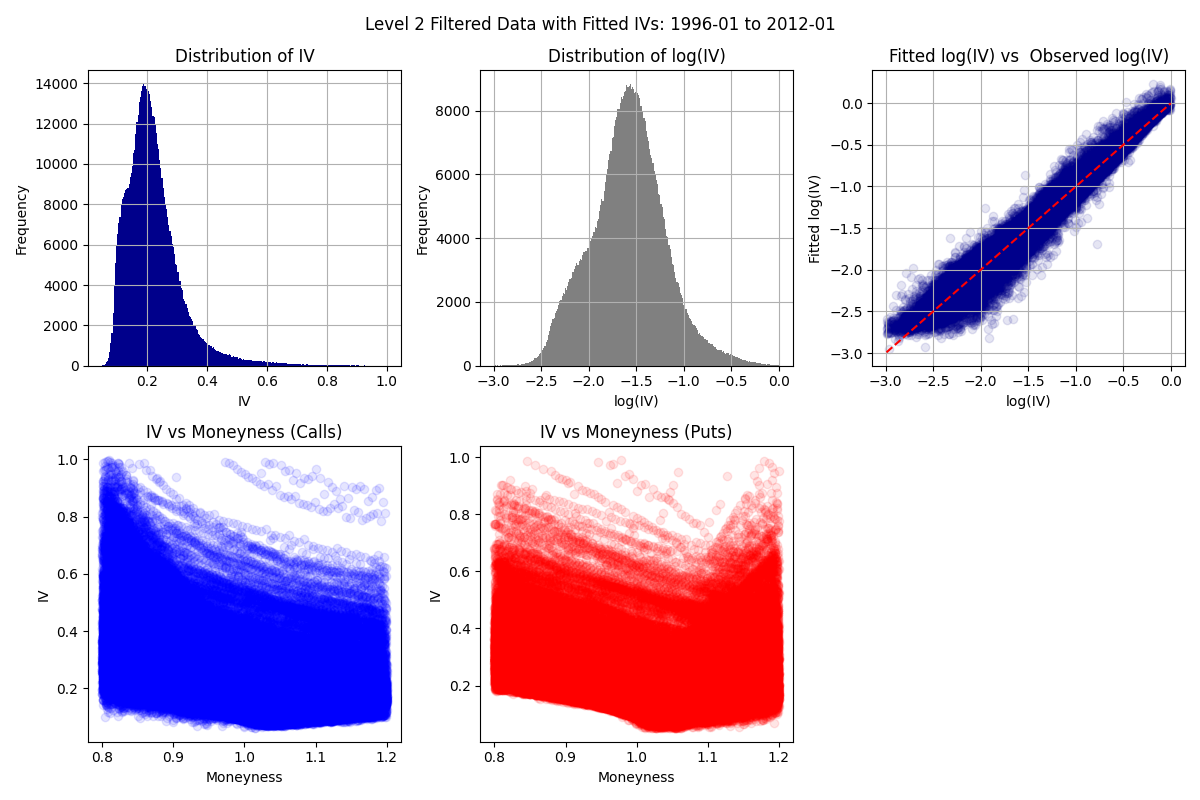
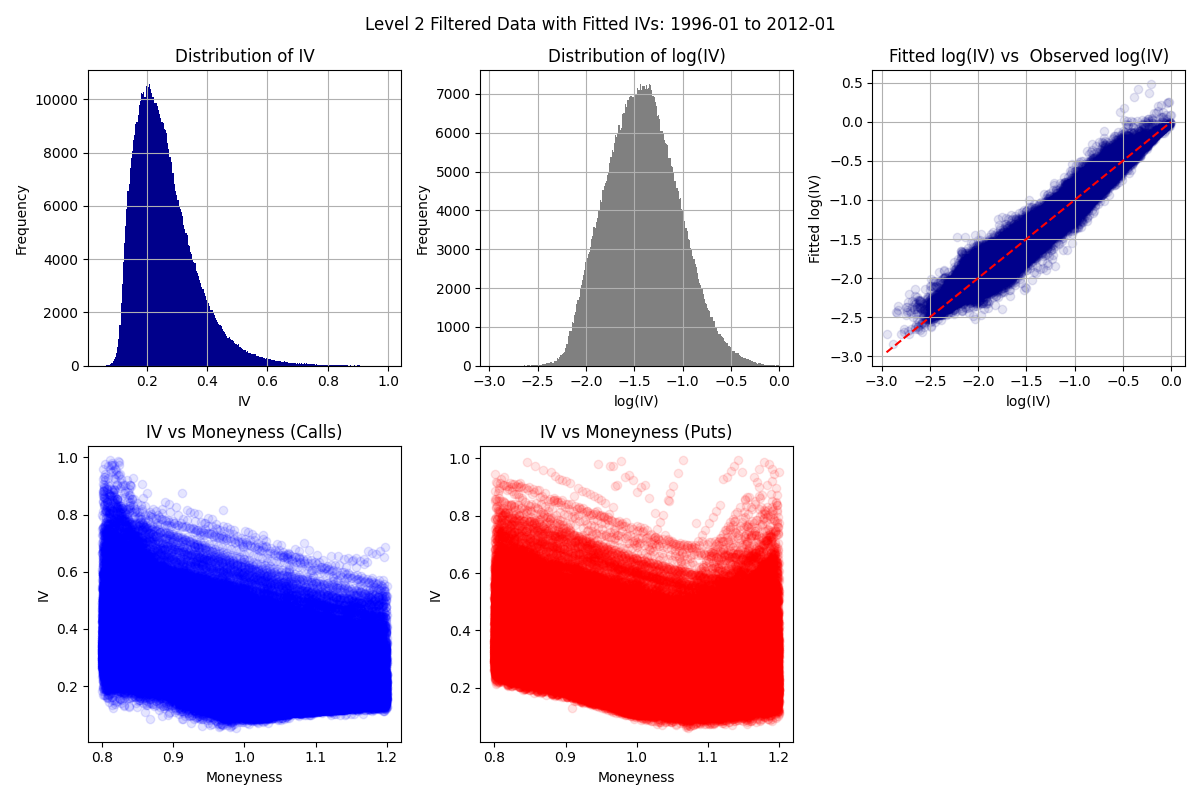
fixed L2 filter to work with new bsm_pricer functions

diff --git a/output/tableB1.tex b/output/tableB1.tex
@@ -4,7 +4,7 @@
        
         
          \multicolumn{4}{c}{}  & \multicolumn{3}{c}{OptionMetrics: 1996-01 to 2012-01}  &  \multicolumn{1}{c}{} & 
-         \multicolumn{3}{c}{OptionMetrics:2012-01 to 2019-12}&  \multicolumn{1}{c}{}  &
+         \multicolumn{3}{c}{OptionMetrics:2012-02 to 2019-12}&  \multicolumn{1}{c}{}  &
           \multicolumn{3}{c}{Total}  \\
          \cline{5-7}
                   
@@ -22,18 +22,18 @@
 	
 				Starting & & Calls & &
 				 & & 1,704,220 & &
-				 & & 7,922,884 & &
-				 & & 9,627,104 \\
+				 & & 7,901,901 & &
+				 & & 9,606,121 \\
 			
 				  & & Puts & &
 				 & & 1,706,360 & &
-				 & & 7,922,410 & &
-				 & & 9,628,770 \\
+				 & & 7,901,427 & &
+				 & & 9,607,787 \\
 			
 				  & & All & &
 				 & & 3,410,580 & &
-				 & & 15,845,294 & &
-				 & & 19,255,874 \\
+				 & & 15,803,328 & &
+				 & & 19,213,908 \\
 			
 				Level 1 filters & & Identical & &
 				0 & &  & &
@@ -47,58 +47,58 @@
 			
 				  & & Bid = 0 & &
 				272,078 & &  & &
-				1,072,421 & &  & &
-				1,344,499 & &  \\
+				1,069,116 & &  & &
+				1,341,194 & &  \\
 			
 				  & & All & &
 				 & & 3,138,492 & &
-				 & & 11,938,441 & &
-				 & & 15,076,933 \\
+				 & & 11,899,780 & &
+				 & & 15,038,272 \\
 			
 				Level 2 filters & & Days to expiration <7 or >180 & &
 				1,297,729 & &  & &
-				3,096,182 & &  & &
-				4,393,911 & &  \\
+				3,080,910 & &  & &
+				4,378,639 & &  \\
 			
 				  & & IV <5\% or >100\% & &
 				16,432 & &  & &
-				63,952 & &  & &
-				80,384 & &  \\
+				63,639 & &  & &
+				80,071 & &  \\
 			
 				  & & K/S <0.8 or >1.2 & &
 				550,227 & &  & &
-				1,997,234 & &  & &
-				2,547,461 & &  \\
+				1,987,486 & &  & &
+				2,537,713 & &  \\
 			
 				  & & Implied interest rate < 0 & &
-				592,726 & &  & &
-				4,434,332 & &  & &
-				5,027,058 & &  \\
+				642,940 & &  & &
+				2,053,938 & &  & &
+				2,696,878 & &  \\
 			
 				  & & Unable to compute IV & &
-				38,434 & &  & &
-				207,340 & &  & &
-				245,774 & &  \\
+				37,733 & &  & &
+				385,913 & &  & &
+				423,646 & &  \\
 			
 				  & & All & &
-				 & & 642,944 & &
-				 & & 2,139,401 & &
-				 & & 2,782,345 \\
+				 & & 593,431 & &
+				 & & 4,327,894 & &
+				 & & 4,921,325 \\
 			
 				Level 3 filters & & IV filter & &
-				33,706 & &  & &
-				133,029 & &  & &
-				166,735 & &  \\
+				38,568 & &  & &
+				312,899 & &  & &
+				351,467 & &  \\
 			
 				  & & Put-call parity filter & &
-				61,212 & &  & &
-				372,658 & &  & &
-				433,870 & &  \\
+				92,973 & &  & &
+				850,793 & &  & &
+				943,766 & &  \\
 			
 				  & & All & &
-				 & & 548,026 & &
-				 & & 1,633,714 & &
-				 & & 2,181,740 \\
+				 & & 461,890 & &
+				 & & 3,164,202 & &
+				 & & 3,626,092 \\
 			
 
 	        \hline

diff --git a/src/filter_option_data_02.py b/src/filter_option_data_02.py
@@ -67,30 +67,38 @@ def filter_implied_interest_rate(optm_l2_mny):
        Implied interest rate field must be defined before running this function.
     """
     
-    optm_l2_mny['best_mid'] = (optm_l2_mny['best_bid'] + optm_l2_mny['best_offer']) / 2
+    optm_l2_mny['mid_price'] = (optm_l2_mny['best_bid'] + optm_l2_mny['best_offer']) / 2
 
     call_options = optm_l2_mny.loc[optm_l2_mny['cp_flag'] == 'C'].reset_index(drop=True)
     put_options = optm_l2_mny.loc[optm_l2_mny['cp_flag'] == 'P'].reset_index(drop=True)
 
     matching_calls, matching_puts = f3.build_put_call_pairs(call_options, put_options)
-
+    # reset index to merge
+    matching_calls.reset_index(inplace=True)
+    matching_puts.reset_index(inplace=True)
+    
     matched_options = pd.merge(matching_calls, matching_puts, on=['date', 'exdate', 'strike_price', 'sec_price'], suffixes=('_C', '_P')).reset_index()
-
+    
     matched_options = f3.calc_implied_interest_rate(matched_options)
-    neg_int = matched_options.loc[matched_options['impl_int_rate'] < 0][['date', 'exdate', 'strike_price', 'sec_price']].drop_duplicates()
+    
+    neg_int = matched_options.loc[matched_options['pc_parity_int_rate'] < 0][['date', 'exdate', 'strike_price', 'sec_price']].drop_duplicates()
     optm_l2_int = pd.merge(optm_l2_mny, neg_int, on=['date', 'exdate', 'strike_price', 'sec_price'], how='outer', indicator=True)
     optm_l2_int = optm_l2_int.loc[optm_l2_int['_merge'] == 'left_only'].drop(columns='_merge')  
-    med_impl_int = matched_options.loc[(matched_options['mnyns_C']>=0.95) & (matched_options['mnyns_C']<=1.05)].groupby(['time_to_maturity_C'])['impl_int_rate'].median().reset_index()
-    med_impl_int = med_impl_int.loc[med_impl_int['impl_int_rate']>=0]
+    med_impl_int = matched_options.loc[(matched_options['mnyns_C']>=0.95) & (matched_options['mnyns_C']<=1.05)].groupby(['time_to_maturity_C'])['pc_parity_int_rate'].median().reset_index()
+    med_impl_int = med_impl_int.loc[med_impl_int['pc_parity_int_rate']>=0]
     optm_l2_int = pd.merge(optm_l2_int, med_impl_int, left_on='time_to_maturity', right_on='time_to_maturity_C', how='left', indicator=True)
-    optm_l2_int['impl_int_rate'] = optm_l2_int['impl_int_rate'].ffill()
+    optm_l2_int['pc_parity_int_rate'] = optm_l2_int['pc_parity_int_rate'].ffill()
+    
     return optm_l2_int
+
 
 def filter_unable_compute_iv(df):
     """Unable to Compute IV Filter: Filter options where implied volatility cannot be computed.
     """
+
     df = df.loc[df['impl_volatility'].notna()]
     return df
+
 
 def apply_l2_filters(df):
     """Apply all level 2 filters to the dataframe.

diff --git a/src/filter_option_data_03.py b/src/filter_option_data_03.py
@@ -19,7 +19,7 @@ import warnings
 warnings.filterwarnings("ignore")
 
 import pandas as pd
-#pd.set_option('display.max_columns', None)
+pd.set_option('display.max_columns', None)
 
 import numpy as np
 import datetime
@@ -210,10 +210,11 @@ def test_price_strike_match(matching_calls_puts):
     Returns:
     bool: True if the strike prices and security prices of matching calls and puts are equal, False otherwise.
     """
+    #print(matching_calls_puts)
     try:
         return (np.allclose(matching_calls_puts['strike_price_C'], matching_calls_puts['strike_price_P'])) and (np.allclose(matching_calls_puts['sec_price_C'], matching_calls_puts['sec_price_P']))# and (np.allclose(matching_calls_puts['tb_m3_C'], matching_calls_puts['tb_m3_P']))
     except KeyError:
-        if 'strike_price' in matching_calls_puts.index.names and 'sec_price' in matching_calls_puts.index.names:
+        if 'strike_price' in matching_calls_puts.columns and 'sec_price' in matching_calls_puts.columns:
             return True
         else:
             return False
@@ -236,8 +237,15 @@ def calc_implied_interest_rate(matched_options):
     # underlying price
     if test_price_strike_match(matched_options):
         print(" |-- PCP filter: Check ok --> Underlying prices, strike prices of put and call options match exactly.")
-        S = matched_options['sec_price_C']
-        K = matched_options['strike_price_C']  
+        try:
+            S = matched_options['sec_price_C']
+        except KeyError:
+            S = matched_options['sec_price']
+        
+        try:
+            K = matched_options['strike_price_C']  
+        except KeyError:
+            K = matched_options['strike_price']
         
         # 1/T = 1/time to expiration in years
         T_inv = np.power((matched_options.reset_index()['exdate']-matched_options.reset_index()['date'])/datetime.timedelta(days=365), -1)

diff --git a/output/table2.tex b/output/table2.tex
@@ -14,11 +14,11 @@
 		          \multicolumn{1}{l}{Observations} &  \multicolumn{1}{l}{} &
 		          \multicolumn{3}{c}{1996-01 to 2012-01} & 
 		          \multicolumn{1}{c}{} &
-			\multicolumn{3}{c}{2012-01 to 2019-12} & 
+			\multicolumn{3}{c}{2012-02 to 2019-12} & 
 			\multicolumn{1}{c}{} &
 		          \multicolumn{3}{c}{1996-01 to 2012-01} & 
 		          \multicolumn{1}{c}{} &
-			\multicolumn{3}{c}{2012-01 to 2019-12} \\
+			\multicolumn{3}{c}{2012-02 to 2019-12} \\
 		        
 
 		       \hline
@@ -29,35 +29,35 @@
 
 	
 		Found &   & 
-		222,525 &  & 81\% & 
+		176,225 &  & 79\% & 
 		 & 
-		 527,594 &  &69\% & 
+		 1,185,069 &  &76\% & 
 		 & 
-		 222,525 &  & 81\% & 
+		 176,225 &  & 79\% & 
 		 & 
-		 527,594& &69\% 
+		 1,185,069& &76\% 
 		 \\
 
 		
 		Missing &   & 
-		4,058 &  & 1\% & 
+		6,867 &  & 3\% & 
 		 & 
-		 6,371 &  &1\% & 
+		 21,026 &  &1\% & 
 		 & 
-		 4,058 &  & 1\% & 
+		 6,867 &  & 3\% & 
 		 & 
-		 6,371& &1\% 
+		 21,026& &1\% 
 		 \\
 
 		
 		Expired &   & 
-		47,355 &  & 17\% & 
+		40,298 &  & 18\% & 
 		 & 
-		 232,476 &  &30\% & 
+		 352,870 &  &23\% & 
 		 & 
-		 47,355 &  & 17\% & 
+		 40,298 &  & 18\% & 
 		 & 
-		 232,476& &30\% 
+		 352,870& &23\% 
 		 \\
 
 		
@@ -67,24 +67,24 @@
 
 	
 		Found &   & 
-		7,170 &  & 82\% & 
+		19,126 &  & 82\% & 
 		 & 
-		 210,826 & 82\% & 
+		 280,486 & 80\% & 
 		 & 
-		 7,170 &  & 82\% & 
+		 19,126 &  & 82\% & 
 		 & 
-		 210,826& &82\% 
+		 280,486& &80\% 
 		 \\
 
 		
 		Interpolated &   & 
-		1,538 &  & 18\% & 
+		4,104 &  & 18\% & 
 		 & 
-		 45,943 & 18\% & 
+		 69,727 & 20\% & 
 		 & 
-		 1,538 &  & 18\% & 
+		 4,104 &  & 18\% & 
 		 & 
-		 45,943& &18\% 
+		 69,727& &20\% 
 		 \\
 
 		

diff --git a/output/L3_2012-02_2019-12_Final_vs_OptionMetrics.tex b/output/L3_2012-02_2019-12_Final_vs_OptionMetrics.tex
@@ -2,9 +2,9 @@
 \toprule
  &  & Deleted - Implemented_2012_2019 & Remaining - Implemented_2012_2019 & Deleted - OptionMetrics_1996-2012 & Remaining - OptionMetrics_1996-2012 \\
 \midrule
-\multirow[t]{3}{*}{Level 3 filters} & IV filter & 124689 & NaN & 67850 & NaN \\
- & Put-call parity filter & 372658 & NaN & 46138 & NaN \\
- & All & NaN & 1633714 & NaN & 962784 \\
+\multirow[t]{3}{*}{Level 3 filters} & IV filter & 309671 & NaN & 67850 & NaN \\
+ & Put-call parity filter & 850793 & NaN & 46138 & NaN \\
+ & All & NaN & 3164202 & NaN & 962784 \\
 \cline{1-6}
 \bottomrule
 \end{tabular}

diff --git a/output/L3_1996-01_2012-01_Final_vs_OptionMetrics.tex b/output/L3_1996-01_2012-01_Final_vs_OptionMetrics.tex
@@ -2,9 +2,9 @@
 \toprule
  &  & Deleted - Implemented_1996_2012 & Remaining - Implemented_1996_2012 & Deleted - OptionMetrics_1996-2012 & Remaining - OptionMetrics_1996-2012 \\
 \midrule
-\multirow[t]{3}{*}{Level 3 filters} & IV filter & 31697 & NaN & 67850 & NaN \\
- & Put-call parity filter & 61212 & NaN & 46138 & NaN \\
- & All & NaN & 548026 & NaN & 962784 \\
+\multirow[t]{3}{*}{Level 3 filters} & IV filter & 35113 & NaN & 67850 & NaN \\
+ & Put-call parity filter & 92973 & NaN & 46138 & NaN \\
+ & All & NaN & 461890 & NaN & 962784 \\
 \cline{1-6}
 \bottomrule
 \end{tabular}

diff --git a/output/L3_2012-02_2019-12_nan_ivs_in_L2_data.tex b/output/L3_2012-02_2019-12_nan_ivs_in_L2_data.tex
@@ -2,7 +2,7 @@
 \toprule
  & NaN IV Records & Total Records & % NaN IV \\
 \midrule
-Calls & 0 & 1092535 & 0.000000 \\
-Puts & 0 & 1046866 & 0.000000 \\
+Calls & 0 & 2054646 & 0.000000 \\
+Puts & 0 & 2273248 & 0.000000 \\
 \bottomrule
 \end{tabular}

diff --git a/output/L3_1996-01_2012-01_nan_ivs_in_L2_data.tex b/output/L3_1996-01_2012-01_nan_ivs_in_L2_data.tex
@@ -2,7 +2,7 @@
 \toprule
  & NaN IV Records & Total Records & % NaN IV \\
 \midrule
-Calls & 0 & 319797 & 0.000000 \\
-Puts & 0 & 323147 & 0.000000 \\
+Calls & 0 & 285751 & 0.000000 \\
+Puts & 0 & 307680 & 0.000000 \\
 \bottomrule
 \end{tabular}
